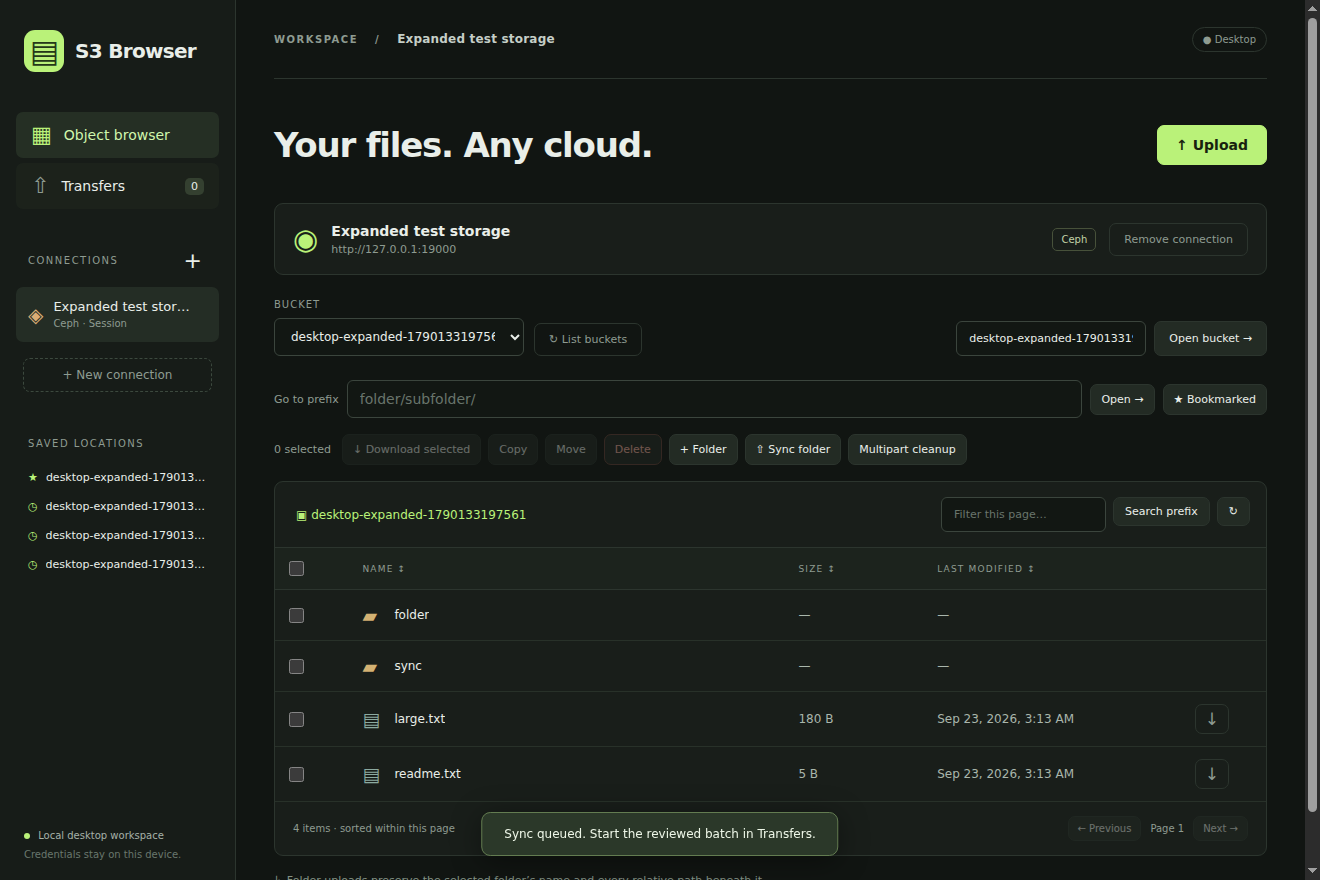
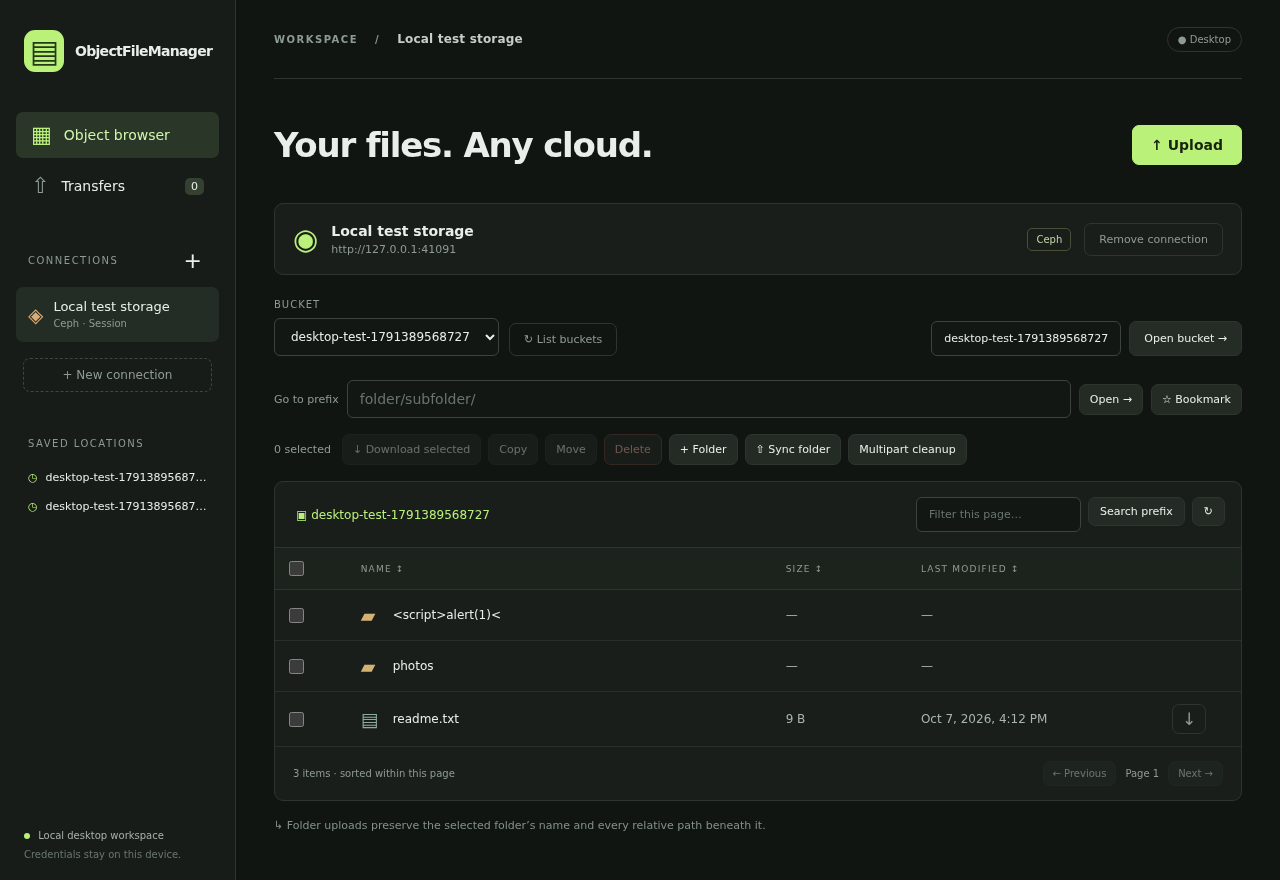
Rename S3 Browser to ObjectFileManager and preserve upgrade compatibility

diff --git a/src/renderer.js b/src/renderer.js
@@ -673,18 +673,23 @@ $("#details-next").onclick = act(async () => {
   state.detailsOffset += 100;
   await loadDetails();
 });
-(async () => {
-  const initial = await api.init();
-  state.profiles = initial.profiles;
-  $("#remember").checked = initial.secure;
-  $("#keyring-note").textContent = initial.secure
-    ? "Saved credentials are encrypted using your operating system’s secure storage."
-    : "No secure OS keyring detected. Connections can be used for this session without saving credentials.";
-  renderConnections();
-  await loadLocations();
-  $("#queue-auto").checked = (await api["queue:status"]()).auto;
-  await refreshJobs();
-})().catch((e) => toast(e.message));
+// workflows.js supplies loadLocations; wait for both scripts to finish loading.
+window.addEventListener(
+  "DOMContentLoaded",
+  act(async () => {
+    const initial = await api.init();
+    state.profiles = initial.profiles;
+    $("#remember").checked = initial.secure;
+    $("#keyring-note").textContent = initial.secure
+      ? "Saved credentials are encrypted using your operating system’s secure storage."
+      : "No secure OS keyring detected. Connections can be used for this session without saving credentials.";
+    renderConnections();
+    await loadLocations();
+    $("#queue-auto").checked = (await api["queue:status"]()).auto;
+    await refreshJobs();
+  }),
+  { once: true },
+);
 let polling = false;
 setInterval(async () => {
   if (polling) return;

diff --git a/src/index.html b/src/index.html
@@ -7,14 +7,14 @@
       http-equiv="Content-Security-Policy"
       content="default-src 'self'; script-src 'self'; style-src 'self'; img-src 'self' data:; connect-src 'none'"
     />
-    <title>S3 Browser</title>
+    <title>ObjectFileManager</title>
     <link rel="stylesheet" href="style.css" />
   </head>
   <body>
     <aside class="sidebar">
       <div class="brand">
         <span class="brand-icon">▤</span>
-        <div>S3 Browser</div>
+        <div>ObjectFileManager</div>
       </div>
       <button class="nav active" id="browse-nav">
         <span>▦</span> Object browser

diff --git a/src/style.css b/src/style.css
@@ -89,10 +89,11 @@ button.primary:hover {
   gap: 11px;
   padding: 0 8px 40px;
   font-weight: 650;
-  font-size: 20px;
+  font-size: 14px;
   letter-spacing: -0.7px;
 }
 .brand-icon {
+  flex-shrink: 0;
   background: var(--accent);
   color: #253818;
   font-size: 31px;

diff --git a/packaging/smoke.py b/packaging/smoke.py
@@ -20,7 +20,9 @@ try:
     # Container-only sandbox override: nested Chromium namespaces are blocked by Docker.
     # Installed launchers never include this flag.
     emulation_flags = ['--no-zygote', '--in-process-gpu'] if os.environ.get('S3_EMULATED') == '1' else []
-    app = subprocess.Popen(['runuser', '-u', 'tester', '--', 'env', 'DISPLAY=:99', '/usr/bin/s3-browser', '--no-sandbox', '--disable-gpu', '--remote-debugging-port=9222', f'--user-data-dir={profile}'] + emulation_flags, stdout=log, stderr=log, start_new_session=True)
+    executable = os.environ.get('S3_SMOKE_EXECUTABLE', '/usr/bin/objectfilemanager')
+    title = os.environ.get('S3_SMOKE_TITLE', 'ObjectFileManager')
+    app = subprocess.Popen(['runuser', '-u', 'tester', '--', 'env', 'DISPLAY=:99', executable, '--no-sandbox', '--disable-gpu', '--remote-debugging-port=9222', f'--user-data-dir={profile}'] + emulation_flags, stdout=log, stderr=log, start_new_session=True)
     deadline = time.monotonic() + int(os.environ.get("S3_SMOKE_TIMEOUT", "40"))
     result = None
     while time.monotonic() < deadline:
@@ -29,7 +31,7 @@ try:
         try:
             with urllib.request.urlopen('http://127.0.0.1:9222/json/list', timeout=2) as response:
                 pages = json.load(response)
-            page = next(p for p in pages if p.get('type') == 'page' and p.get('title') == 'S3 Browser')
+            page = next(p for p in pages if p.get('type') == 'page' and p.get('title') == title)
             ws = websocket.create_connection(page['webSocketDebuggerUrl'], timeout=4, suppress_origin=True)
             ws.send(json.dumps({'id': 1, 'method': 'Runtime.evaluate', 'params': {'expression': '(async () => ({ title: document.querySelector("h1")?.textContent, init: await window.s3.init(), jobs: await window.s3.jobs() }))()', 'awaitPromise': True, 'returnByValue': True}}))
             while True:

diff --git a/README.md b/README.md
@@ -1,4 +1,4 @@
-# S3 Browser
+# ObjectFileManager (OFM)
 
 ### NOTICE: this project is vibecoded mess works for me i hope it works for you write an issue if it doesnt and ill see what i can do, because of that this project has no warranty use it at your own risk
 
@@ -6,25 +6,30 @@ i was migrating a lot of stuff and needed a tool to quickly upload to S3 compati
 
 A local desktop browser for Amazon S3, Cloudflare R2, Ceph RGW, MinIO, custom S3-compatible endpoints, OpenStack Swift, Azure Blob Storage, and Google Cloud Storage. Browse and organize objects, queue uploads and folder downloads, inspect object versions and metadata, and review one-way folder syncs. Built with Electron, native storage adapters, and a persistent SQLite transfer queue.
 
-![S3 Browser](assets/welcome.png)
+![ObjectFileManager](assets/welcome.png)
 
 ## Install
+
+ObjectFileManager (OFM) was previously named S3 Browser. Starting with 1.0.3,
+packages and the executable are named `objectfilemanager`. Native packages
+replace the old `s3-browser` package. Existing connections, bookmarks, and
+transfer history continue to use the same profile directory and keyring identity.
 
 [Releases](https://github.com/bigpod98/S3Browser/releases) provide **DEB, RPM, Arch and portable archives for Linux x86_64 and ARM64**, with a `SHA256SUMS` file. Packages and checksums are not signed: the checksums detect corrupted downloads, not a compromised release host. The features below describe the current source, which may be newer than the latest release. See [CI and release setup](packaging/README.md#github-actions-and-releases) for how releases are built and validated.
 
 Building from source places native Linux packages in `dist/native/`:
 
-| Distribution    | Package                                      | Install                                                                   |
-| --------------- | -------------------------------------------- | ------------------------------------------------------------------------- |
-| Arch / ALPM     | `alpm/s3-browser-0.1.1-1-x86_64.pkg.tar.zst` | `sudo pacman -U ./dist/native/alpm/s3-browser-0.1.1-1-x86_64.pkg.tar.zst` |
-| Debian / Ubuntu | `deb/s3-browser_0.1.1-1_amd64.deb`           | `sudo apt install ./dist/native/deb/s3-browser_0.1.1-1_amd64.deb`         |
-| Fedora / RPM    | `rpm/s3-browser-0.1.1-1.x86_64.rpm`          | `sudo dnf install ./dist/native/rpm/s3-browser-0.1.1-1.x86_64.rpm`        |
+| Distribution    | Package                                             | Install                                                                          |
+| --------------- | --------------------------------------------------- | -------------------------------------------------------------------------------- |
+| Arch / ALPM     | `alpm/objectfilemanager-1.0.3-1-x86_64.pkg.tar.zst` | `sudo pacman -U ./dist/native/alpm/objectfilemanager-1.0.3-1-x86_64.pkg.tar.zst` |
+| Debian / Ubuntu | `deb/objectfilemanager_1.0.3-1_amd64.deb`           | `sudo apt install ./dist/native/deb/objectfilemanager_1.0.3-1_amd64.deb`         |
+| Fedora / RPM    | `rpm/objectfilemanager-1.0.3-1.x86_64.rpm`          | `sudo dnf install ./dist/native/rpm/objectfilemanager-1.0.3-1.x86_64.rpm`        |
 
-After installation, open **S3 Browser** from your application menu or run `s3-browser`. Your connections and transfer history stay in your user profile when the package is removed. See [packaging documentation](packaging/README.md) for build and validation details.
+After installation, open **ObjectFileManager** from your application menu or run `objectfilemanager`. Your connections and transfer history stay in your user profile when the package is removed. See [packaging documentation](packaging/README.md) for build and validation details.
 
 The table shows x86_64 filenames; ARM64 builds use `arm64` for DEB and `aarch64` for RPM/Arch.
 
-A portable alternative is `s3-browser-0.1.1-linux-x64.tar.gz` (`linux-arm64.tar.gz` for ARM64): extract it and open `s3-browser` inside the extracted folder. Keep its accompanying files together, including its license notices. After `npm run pack`, `dist/linux-unpacked/s3-browser` can also be launched directly.
+A portable alternative is `objectfilemanager-1.0.3-linux-x64.tar.gz` (`linux-arm64.tar.gz` for ARM64): extract it and open `objectfilemanager` inside the extracted folder. Keep its accompanying files together, including its license notices. After `npm run pack`, `dist/linux-unpacked/objectfilemanager` can also be launched directly.
 
 To run from source, install Node.js 22.13 or later and a recent npm:
 
@@ -186,6 +191,6 @@ Not covered by automated tests: live Amazon S3, R2, Ceph, Azure, Google Cloud St
 
 ## License
 
-S3 Browser is released under the [MIT License](LICENSE), copyright 2026 Primož Ajdišek (bigpod).
+ObjectFileManager is released under the [MIT License](LICENSE), copyright 2026 Primož Ajdišek (bigpod).
 
-Builds also contain Electron, Chromium, and npm production dependencies under their own licenses. Portable archives include `LICENSE`, `THIRD_PARTY_NOTICES.txt`, `LICENSE.electron.txt`, and `LICENSES.chromium.html` beside the executable; native packages also install them in `/usr/share/licenses/s3-browser/`. `THIRD_PARTY_NOTICES.txt` is generated during each build from the locked, installed production dependencies; see [license notices](packaging/README.md#license-notices).
+Builds also contain Electron, Chromium, and npm production dependencies under their own licenses. Portable archives include `LICENSE`, `THIRD_PARTY_NOTICES.txt`, `LICENSE.electron.txt`, and `LICENSES.chromium.html` beside the executable; native packages also install them in `/usr/share/licenses/objectfilemanager/`. `THIRD_PARTY_NOTICES.txt` is generated during each build from the locked, installed production dependencies; see [license notices](packaging/README.md#license-notices).

diff --git a/packaging/README.md b/packaging/README.md
@@ -1,5 +1,13 @@
 # Native Linux packages
 
+ObjectFileManager (OFM) replaces S3 Browser beginning with version 1.0.3. The
+package and command are `objectfilemanager`. DEB, RPM, and Arch metadata declare
+replacement of the old package. The desktop ID `com.tuxbase.s3browser`, Electron
+storage/keyring identity `s3-browser`, and existing profile directory stay stable
+so upgrades retain desktop integration, saved connections, and transfer history.
+Remote metadata fields and resumable download filenames also retain their old
+identifiers for compatibility. Repository links still point to `bigpod98/S3Browser`.
+
 Build all three formats from this project's source:
 
 ```sh
@@ -33,22 +41,22 @@ Package versions use the application version plus package release `1`, for examp
 
 ## Installed files
 
-- `/opt/s3-browser/`: private application and Electron runtime.
-- `/usr/bin/s3-browser`: symlink to the executable.
+- `/opt/objectfilemanager/`: private application and Electron runtime.
+- `/usr/bin/objectfilemanager`: symlink to the executable.
 - `/usr/share/applications/com.tuxbase.s3browser.desktop`: application menu entry.
 - `/usr/share/icons/hicolor/512x512/apps/com.tuxbase.s3browser.png`: application icon.
-- `/usr/share/doc/s3-browser/`: README and the Debian-format `copyright` file.
-- `/usr/share/licenses/s3-browser/`: `LICENSE`, `THIRD_PARTY_NOTICES.txt`, `LICENSE.electron.txt`, and `LICENSES.chromium.html`, also present in `/opt/s3-browser/`.
+- `/usr/share/doc/objectfilemanager/`: README and the Debian-format `copyright` file.
+- `/usr/share/licenses/objectfilemanager/`: `LICENSE`, `THIRD_PARTY_NOTICES.txt`, `LICENSE.electron.txt`, and `LICENSES.chromium.html`, also present in `/opt/objectfilemanager/`.
 
 Files are root-owned. The Chromium sandbox helper is root-owned mode `4755`, as required for its setuid fallback. The installed launcher does not disable sandboxing. The app uses the desktop OS keyring if available; `gnome-keyring` is recommended/optional, rather than required for session-only connections.
 
-S3 Browser is MIT-licensed. RPM and ALPM metadata declare `MIT` for the project; Debian's `copyright` file declares MIT for the project and points to the bundled-component notices. Packages are unsigned. The release workflow attaches them to the tagged GitHub release; native package registry publication is not configured. The maintainer is Primož Ajdišek <bigpod@bigpod.si>.
+ObjectFileManager is MIT-licensed. RPM and ALPM metadata declare `MIT` for the project; Debian's `copyright` file declares MIT for the project and points to the bundled-component notices. Packages are unsigned. The release workflow attaches them to the tagged GitHub release; native package registry publication is not configured. The maintainer is Primož Ajdišek <bigpod@bigpod.si>.
 
 ## License notices
 
-Every build carries the same four license files beside the executable. Native packages install them in `/usr/share/licenses/s3-browser/`, and portable archives contain them at the top level:
+Every build carries the same four license files beside the executable. Native packages install them in `/usr/share/licenses/objectfilemanager/`, and portable archives contain them at the top level:
 
-- `LICENSE`: S3 Browser's MIT license.
+- `LICENSE`: ObjectFileManager's MIT license.
 - `THIRD_PARTY_NOTICES.txt`: the license and notice files of every npm production dependency in `resources/app.asar`.
 - `LICENSE.electron.txt` and `LICENSES.chromium.html`: the Electron runtime, Chromium, Node.js and their components, as shipped by Electron.
 
@@ -64,6 +72,14 @@ Runtime dependencies are declared in each native recipe. In particular, GTK, NSS
 npm run test:packages          # All formats
 npm run test:packages -- deb   # One format
 ```
+
+To exercise the rename upgrade, download the matching-architecture 1.0.2 release
+packages into `deb/`, `rpm/`, and `alpm/` subdirectories of a temporary directory,
+verify them against that release's `SHA256SUMS`, then run
+`S3_TEST_UPGRADE_DIR=/path/to/old-packages npm run test:packages -- --x64`
+(or `--arm64`). The test installs and launches the old package first, replaces it
+with ObjectFileManager, checks that the old executable is removed and profile
+files survive, then runs the normal startup and removal checks.
 
 This installs the generated package using the distro package manager in a disposable container, letting it resolve the declared dependencies. It checks native metadata, version ordering, launcher/icon paths, executable library resolution, sandbox permissions, and desktop-file validity. It then starts the installed app as an unprivileged user under Xvfb and queries its real renderer through Chrome DevTools to verify the welcome screen, application version, SQLite initialization, and IPC calls.
 
@@ -90,14 +106,14 @@ Only the tag-triggered publication job requests write access. Tag reviewed commi
 The release assets are exactly:
 
 ```text
-s3-browser_VERSION-1_amd64.deb
-s3-browser-VERSION-1.x86_64.rpm
-s3-browser-VERSION-1-x86_64.pkg.tar.zst
-s3-browser-VERSION-linux-x64.tar.gz
-s3-browser_VERSION-1_arm64.deb
-s3-browser-VERSION-1.aarch64.rpm
-s3-browser-VERSION-1-aarch64.pkg.tar.zst
-s3-browser-VERSION-linux-arm64.tar.gz
+objectfilemanager_VERSION-1_amd64.deb
+objectfilemanager-VERSION-1.x86_64.rpm
+objectfilemanager-VERSION-1-x86_64.pkg.tar.zst
+objectfilemanager-VERSION-linux-x64.tar.gz
+objectfilemanager_VERSION-1_arm64.deb
+objectfilemanager-VERSION-1.aarch64.rpm
+objectfilemanager-VERSION-1-aarch64.pkg.tar.zst
+objectfilemanager-VERSION-linux-arm64.tar.gz
 SHA256SUMS
 ```
 
